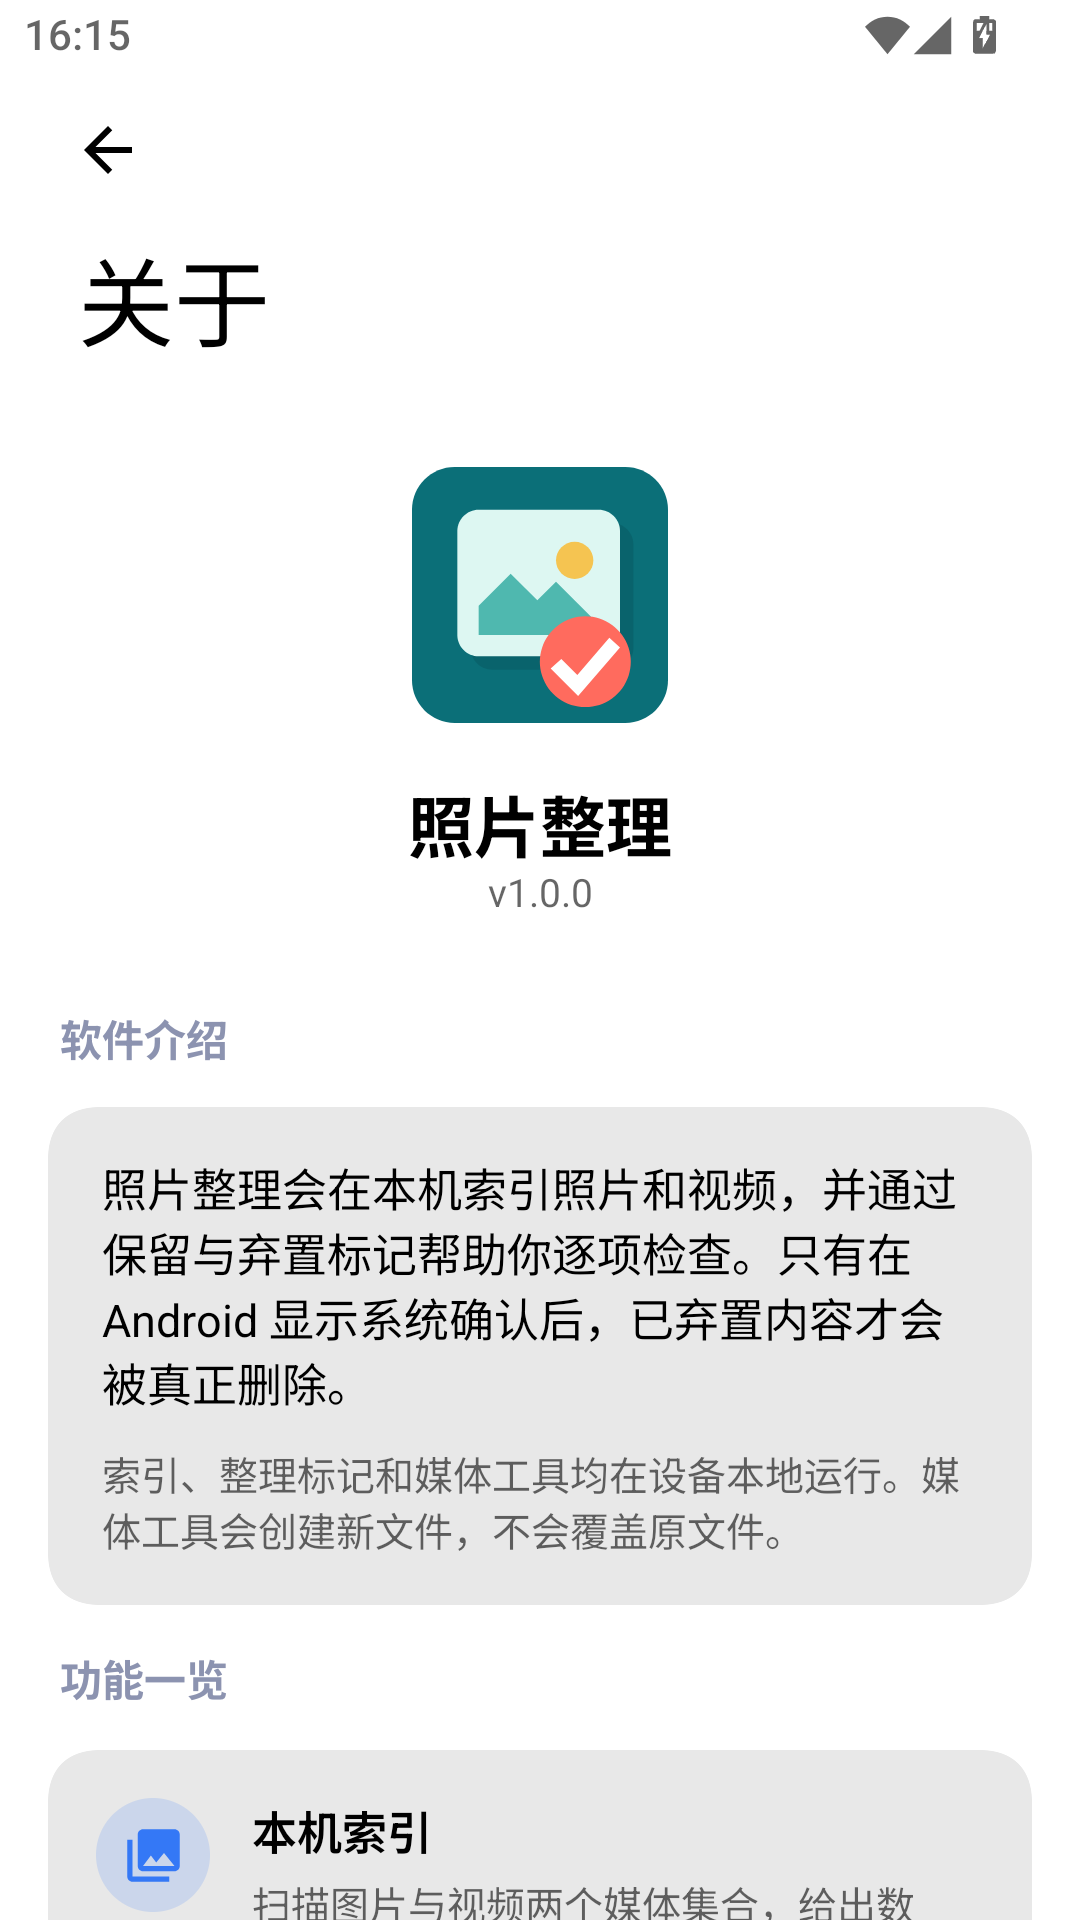
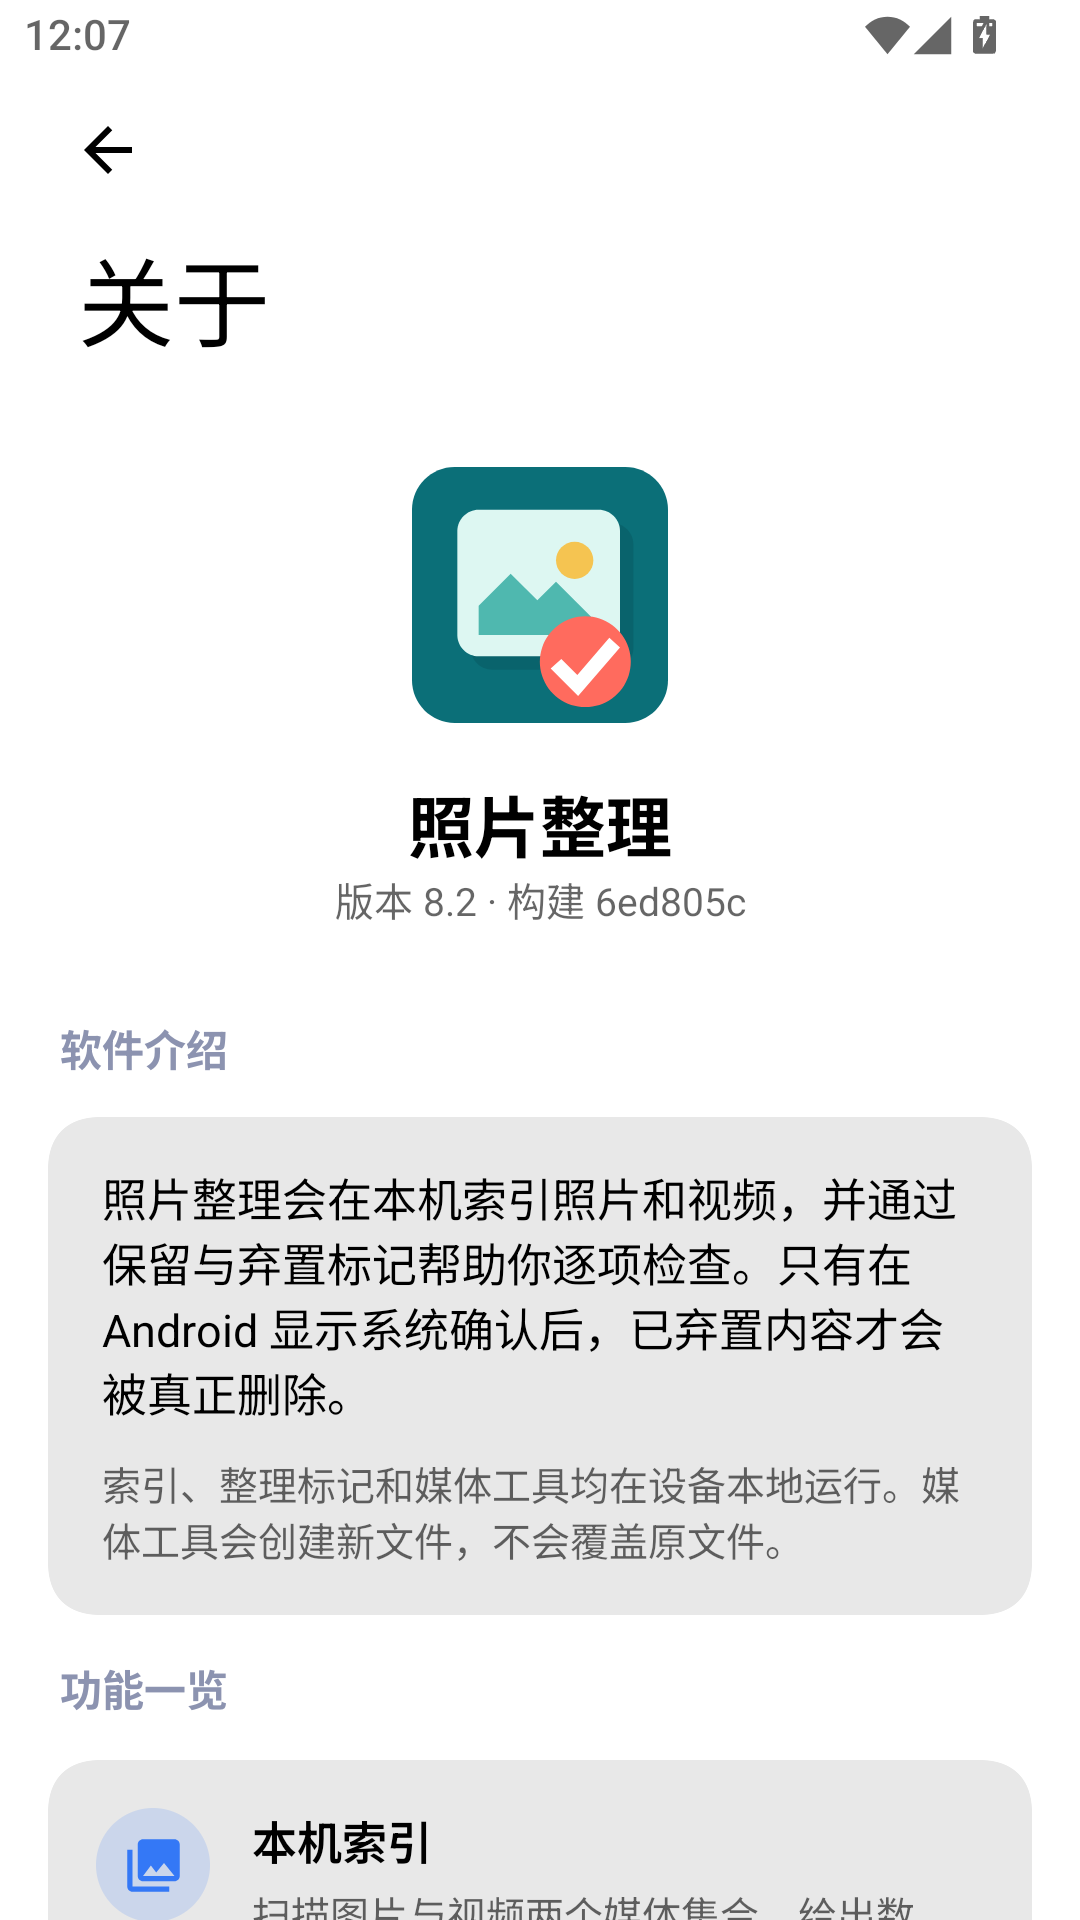
版本号提升到 8.2
本次发布只有快速滚动条的两处：长按拖动此前完全无效，以及滚动条与瓦片之间那道
不对称的空白。

`gradle.properties` 是版本号的唯一声明处，按它自己的注释同步了另外三处：
README.md 与 index.html 里引用的版本字符串，以及 assets/screens/about.png ——
关于页会显示版本号，而那张图还停在 v1.0.0，是版本号写进 gradle.properties 之前
截的，这次一并重截。

verify 全过：`tools/check-workflows.sh`、`:app:test`、`:app:lint`、
`:app:assembleNightly`。安装到模拟器确认 versionCode=10、versionName=8.2，
关于页显示「版本 8.2」。

diff --git a/index.html b/index.html
@@ -467,7 +467,7 @@ footer a:hover{border-bottom-color:var(--teal)}
       <a class="cta cta-primary" href="https://github.com/lswlc33/photo/releases/tag/nightly">下载 APK</a>
       <a class="cta cta-ghost" href="https://github.com/lswlc33/photo">查看源码</a>
     </div>
-    <p class="cta-note stagger" style="animation-delay:1.06s">v8.1 · Android 13 及以上 · 约 5 MB（已压缩），随 master 每次提交刷新。安装时系统会问一次是否允许未知来源。</p>
+    <p class="cta-note stagger" style="animation-delay:1.06s">v8.2 · Android 13 及以上 · 约 5 MB（已压缩），随 master 每次提交刷新。安装时系统会问一次是否允许未知来源。</p>
   </div>
 </header>
 

diff --git a/README.md b/README.md
@@ -40,7 +40,7 @@
 
 ## 下载与安装
 
-当前版本 **v8.1**（`versionCode 9`）。
+当前版本 **v8.2**（`versionCode 10`）。
 
 [nightly 预发布](https://github.com/lswlc33/photo/releases/tag/nightly)跟着 master 走：每次推送都自动构建，检查通过后把新的 APK 刷新到同一个位置。它是 **nightly 构建** —— 代码压缩、资源压缩、「不可调试」和签名密钥都和正式版一致（约 5 MB），区别只是它构建自 master 的任意一个提交。
 
